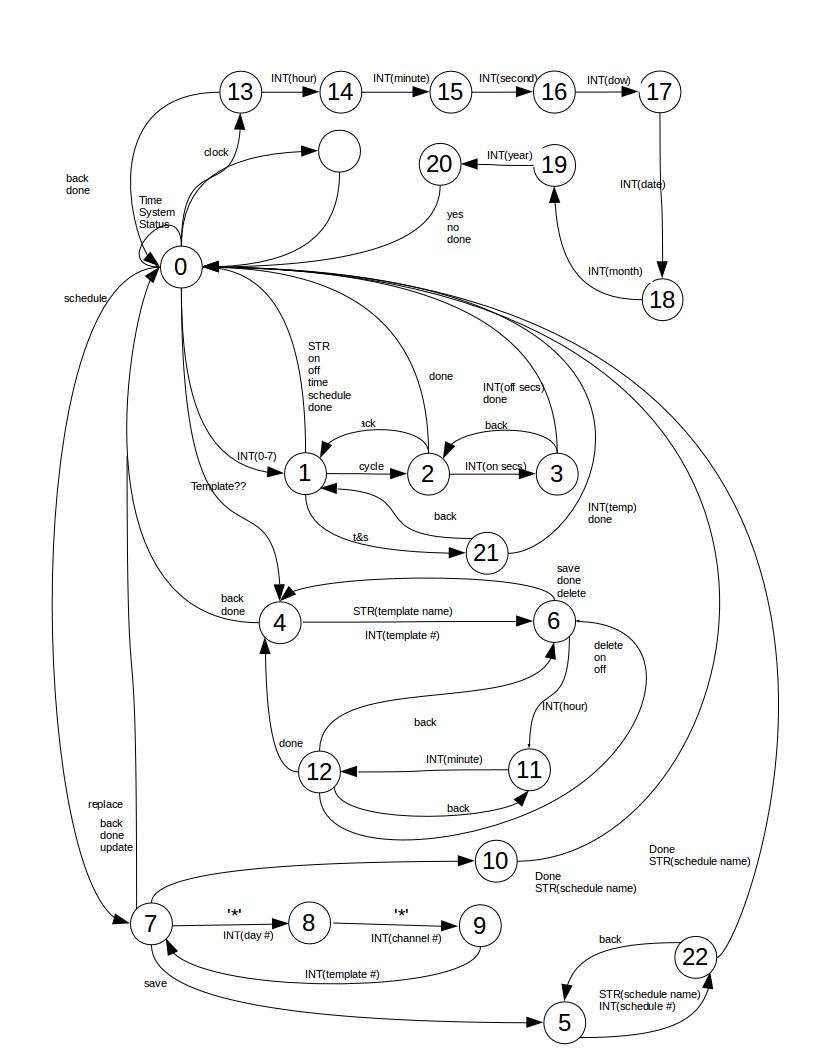
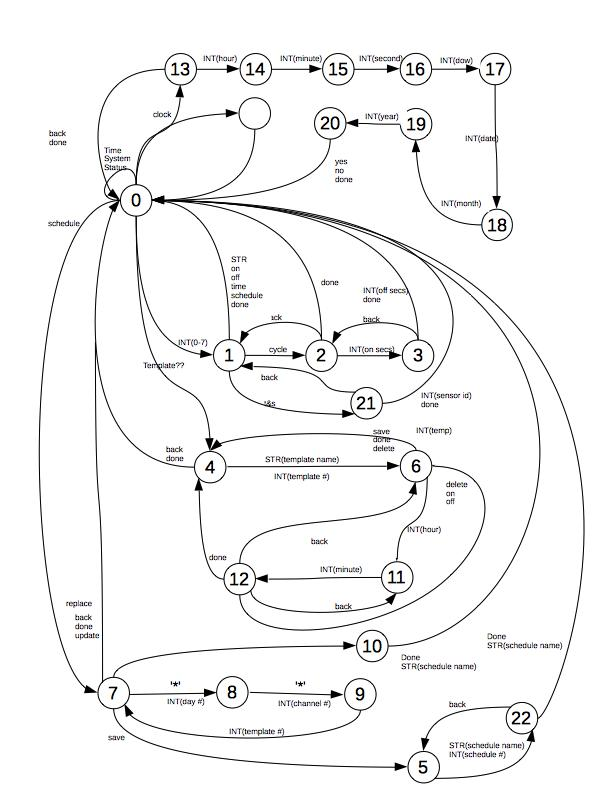
adding code to allow sensor id to be added to cahnnel data

diff --git a/BBB/lib-sources/cmd_fsm.c b/BBB/lib-sources/cmd_fsm.c
@@ -286,12 +286,13 @@ int c_45(CMD_FSM_CB *); /* set real time clock day */
 int c_46(CMD_FSM_CB *); /* set real time clock year */
 int c_47(CMD_FSM_CB *); /* set real time clock day of the week */
 int c_48(CMD_FSM_CB *); /* set PCF8563 */
+int c_49(CMD_FSM_CB *); /* set channel sensor_id */
 
 /* cmd processor action table - initialized with fsm functions */
 
 CMD_ACTION_PTR cmd_action[_CMD_TOKENS][_CMD_STATES] = {
 	/*                STATE 0     1     2     3     4     5     6     7     8     9    10    11    12    13    14    15    16    17    18    19    20    21    22    23  */
-	/*  0  INT      */  { c_4,  c_7, c_16, c_17, c_27,  c_0, c_20, c_29, c_30, c_35, c_33, c_21,  c_0, c_41, c_42, c_43, c_44, c_45, c_46, c_47,  c_0,  c_0,  c_0,  c_0},
+	/*  0  INT      */  { c_4,  c_7, c_16, c_17, c_27,  c_0, c_20, c_29, c_30, c_35, c_33, c_21,  c_0, c_41, c_42, c_43, c_44, c_45, c_46, c_47,  c_0,  c_0,  c_0, c_49},
 	/*  1  STR      */  { c_7,  c_5,  c_0,  c_0, c_19,  c_0,  c_0,  c_7,  c_0,  c_0,  c_0,  c_0,  c_0,  c_0,  c_0,  c_0,  c_0,  c_0,  c_0,  c_0,  c_0,  c_0,  c_0,  c_0},
 	/*  2  $        */  { c_0,  c_0,  c_0,  c_0,  c_0,  c_0,  c_0,  c_7,  c_0,  c_0,  c_0,  c_0,  c_0,  c_0,  c_0,  c_0,  c_0,  c_0,  c_0,  c_0,  c_0,  c_0,  c_0,  c_0},
 	/*  3  *        */  { c_8,  c_8,  c_8,  c_0,  c_0,  c_0,  c_0, c_31, c_32,  c_0,  c_0,  c_0,  c_0,  c_0,  c_0,  c_0,  c_0,  c_0,  c_0,  c_0,  c_0,  c_0,  c_0,  c_0},
@@ -752,8 +753,7 @@ int c_12(CMD_FSM_CB *cb)
 	strcpy(cb->prompt_buffer, "channel ");
 	sprintf(numstr, "%d", cb->w_channel);
 	strcat(cb->prompt_buffer, numstr);
-	strcat(cb->prompt_buffer, " mode set to time & sensor\r\n");
-	c_36(cb);   //append state 0 prompt to prompt buffer
+	strcat(cb->prompt_buffer, " mode set to time & sensor\r\n enter sensor id number > ");
 	return 0;
 }
 /* set channel control mode to cycle */
@@ -928,10 +928,6 @@ int c_22(CMD_FSM_CB *cb)
 	strcat(cb->prompt_buffer, (char *)cb->w_schedule_name);
 	strcat(cb->prompt_buffer, "\r\n");
 	strcat(cb->prompt_buffer, sch2text(cb->w_schedule, temp));
-	// strcat(cb->prompt_buffer,"\r\n  enter action for ");
-	// strcat(cb->prompt_buffer,cb->w_hours_str);
-	// strcat(cb->prompt_buffer,":");
-	// strcat(cb->prompt_buffer,cb->w_minutes_str);
 	strcat(cb->prompt_buffer, "\r\n  enter time (HH,MM) > ");
 	return 0;
 }
@@ -1393,7 +1389,16 @@ int c_48(CMD_FSM_CB *cb)
 	return 0;
 }
 
+/* set sensor id  */
+int c_49(CMD_FSM_CB *cb)
+{
+	
+	ipc_ptr->c_dat[cb->w_channel].sensor_id = cb->token_value;
 
+	/* build prompt */
+	c_34(cb);
+	return 0;
+}
 
 /**************** end command fsm action routines ******************/
 

diff --git a/BBB/include/typedefs.h b/BBB/include/typedefs.h
@@ -44,7 +44,7 @@ typedef	struct {
 
     // int 		template_id[_DAYS_PER_WEEK][_NUMBER_OF_CHANNELS];			// map each (day,channel) to a template id
     int 		schlib_index;												// points to the next available record (maybe)
-    uint64_t    sch[_DAYS_PER_WEEK][_NUMBER_OF_CHANNELS][_SCHEDULE_SIZE];	// system schedule
+    uint32_t    sch[_DAYS_PER_WEEK][_NUMBER_OF_CHANNELS][_SCHEDULE_SIZE];	// system schedule
     uint32_t	*sch_ptr;   												// pointer to system schedule
     CHN_DAT     c_data[_NUMBER_OF_CHANNELS];								// channel persistent data
     TMPL_DAT	s_data[_MAX_SCHLIB_SCH];									// schedule template library
@@ -59,12 +59,12 @@ typedef struct {
 	int				token_type;
 	int				token_value;
 	char 			prompt_buffer[_PROMPT_BUFFER_SIZE];
-	uint64_t        w_sch[_DAYS_PER_WEEK][_NUMBER_OF_CHANNELS][_SCHEDULE_SIZE];
-	uint64_t		*w_sch_ptr;
+	uint32_t        w_sch[_DAYS_PER_WEEK][_NUMBER_OF_CHANNELS][_SCHEDULE_SIZE];
+	uint32_t		*w_sch_ptr;
 	int             w_channel;                      //working channel number
 	int             w_schedule_name[_SCHEDULE_NAME_SIZE];
 	int             w_schedule_number;
-	uint64_t        w_schedule[_SCHEDULE_SIZE];
+	uint32_t        w_schedule[_SCHEDULE_SIZE];
 	int             w_minutes;
 	char            w_minutes_str[4];
 	int             w_hours;
@@ -72,6 +72,9 @@ typedef struct {
 	int				w_srec_state;
 	int				w_template_index;
 	int 			w_day;
+	int 			w_temp;
+	int 			w_humid;
+	int 			w_sensor_id;
 	int				w_template_num;
 	SYS_DAT			*sdat_ptr;
 } CMD_FSM_CB;
@@ -94,9 +97,10 @@ typedef struct {
 /* ipc data - memory mapped */
 typedef	struct {
 	// uint32_t    sch[_DAYS_PER_WEEK][_NUMBER_OF_CHANNELS][_SCHEDULE_SIZE];	// system schedule
-	uint64_t    sch[_DAYS_PER_WEEK][_NUMBER_OF_CHANNELS][_SCHEDULE_SIZE];	// system schedule
+	uint32_t    sch[_DAYS_PER_WEEK][_NUMBER_OF_CHANNELS][_SCHEDULE_SIZE];	// system schedule
 	int			force_update;		// force daemon to update channel
     struct {
+    	int 		sensor_id;		// sensor used for controling chanel
     	int 		c_state;		// 0 = off, 1 = on	
 		int 		c_mode; 		// Control mode: 0-manual, 1-time, 2-time & sensor, 3-cycle
 		int			on_sec ;		// on cycle in seconds

diff --git a/BBB/lib-sources/schedule.c b/BBB/lib-sources/schedule.c
@@ -37,7 +37,7 @@ extern int     edit_channel, edit_day, edit_hour, edit_minute, edit_key;
 /***************************** globals **********************************/
 uint32_t       state_mask = B32(10000000, 00000000, 00000000, 00000000);
 uint32_t       key_mask   = B32(01111111, 11111111, 11111111, 11111111);
-uint32_t       state_mask = B32(00000000, 00000000, 11111111, 11111111);
+uint32_t       temp_mask = B32(00000000, 00000000, 11111111, 11111111);
 
 /*******************************  functions ******************************/
 
@@ -379,7 +379,7 @@ void dump_sch(uint32_t *sch){
 	printf("\n--------------------------------------------------\n%i schedule records\n",rcnt );
 
 	for(i=0;i<rcnt;i++){
-		printf("  record number %i  key <>  state <>\n",i, get_key(*(sch+i)), get_state(*(sch+i)));
+		printf("  record number %i  key <%i>  state <>\n",i, get_key(*(sch+i)), get_state(*(sch+i)));
 	}
 	return;
 }

diff --git a/BBB/test-schedule/test-schedule.c b/BBB/test-schedule/test-schedule.c
@@ -57,7 +57,7 @@ int add_sch_rec(_SCH *sch, int day, int channel, int s_id, int hour, int minute,
 		printf("  rcnt=%i\n", sch->schedule[day][channel].rcnt);
 		return 0;
 	}
-	/* search shedule */
+	/* search schedule */
 
 	for (i = 0; i < sch->schedule[day][channel].rcnt - 1; i++) {
 		trec = i;
